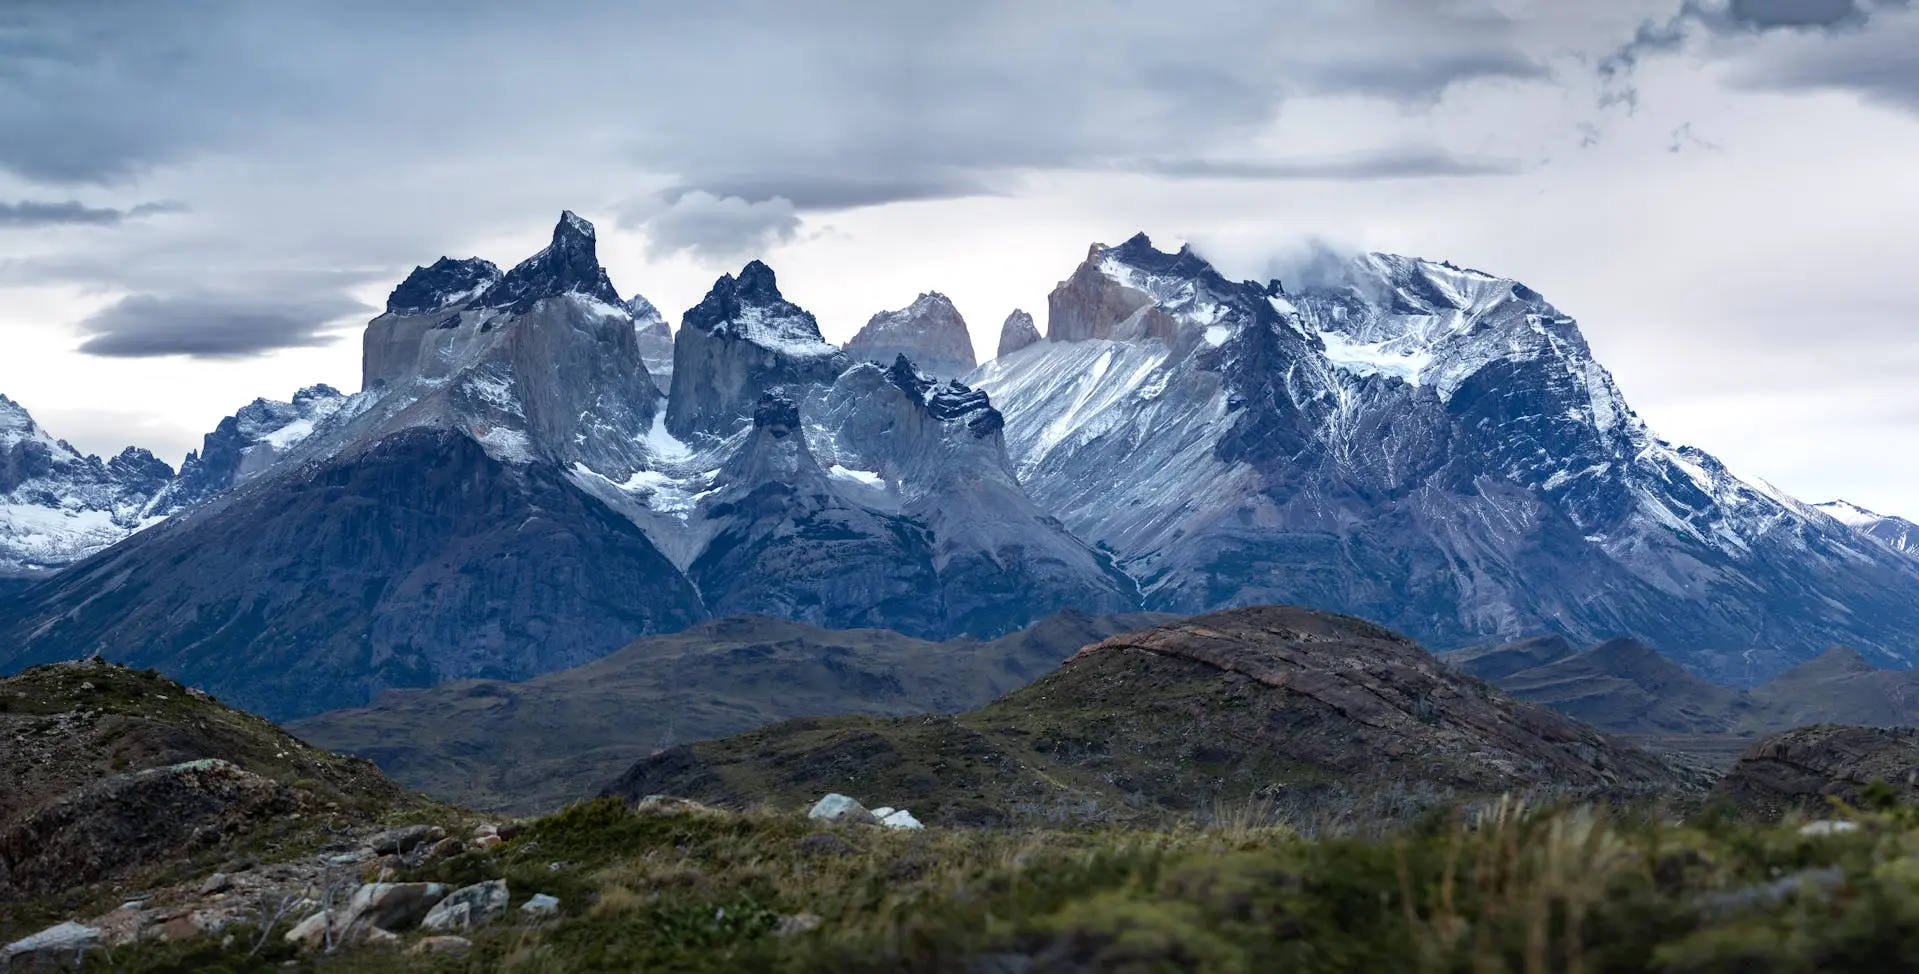
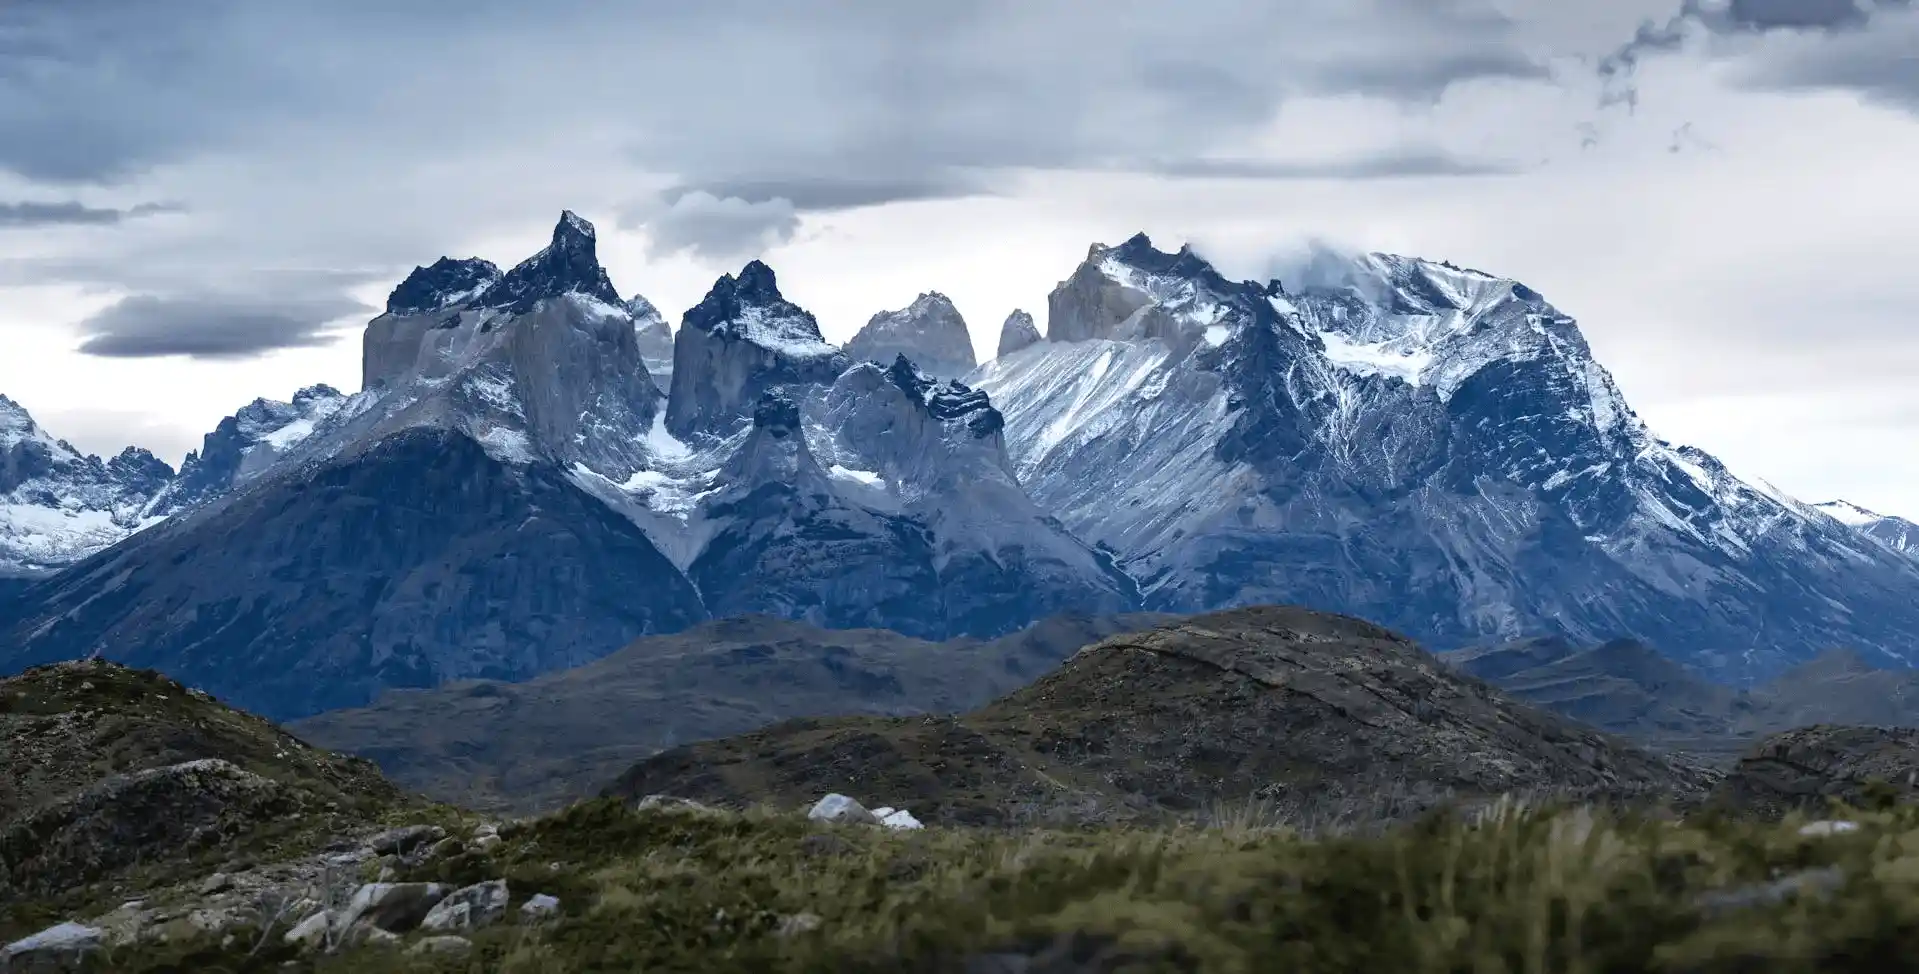
added more info, checked the css

Changed region(s): [[0.8609, 0.462, 0.9224, 0.5544]]

diff --git a/styles/place.css b/styles/place.css
@@ -1,53 +1,73 @@
 :root {
-  --primary: #0033a0;
-  --secondary: #d52b1e;
-  --bg: #ffffff;
-  --text: #000000;
+    --primary: #0033a0;
+    --secondary: #d52b1e;
+    --bg: #ffffff;
+    --text: #000000;
 }
 
 body {
-  margin: 0;
-  font-family: Arial, sans-serif;
-  background: var(--bg);
-  color: var(--text);
+    margin: 0;
+    font-family: Arial, sans-serif;
+    background: var(--bg);
+    color: var(--text);
 }
 
 header, footer {
-  text-align: center;
-  padding: 1rem;
-  background: var(--primary);
-  color: white;
+    text-align: center;
+    padding: 1rem;
+    background: var(--primary);
+    color: white;
 }
 
 .hero img {
-  width: 100%;
-  display: block;
+    width: 100%;
+    display: block;
 }
 
 main {
-  padding: 1rem;
+    padding: 1rem;
 }
 
 .weather-icon {
-  width: 60px;
+    width: 60px;
 }
 
 @media (min-width: 700px) {
-  main {
-    display: grid;
-    grid-template-columns: 1fr 1fr;
-    gap: 1rem;
-  }
+  
+    main {
+        display: grid;
+        grid-template-columns: 1fr 1fr;
+        gap: 1rem;
+    }
 
-  .hero {
+    .hero {
     grid-column: 1 / -1;
-  }
+    position: relative;
+    }
 
-  .weather-title::after {
-    content: " ⛅";
-  }
+    .data,
+    .weather {
+        position: absolute;
+        top: 20px;
+        background: rgba(255, 255, 255, 0.85);
+        padding: 1rem;
+        border-radius: 8px;
+        max-width: 300px;
+    }
 
-  .weather-icon {
-    display: none;
-  }
+    .data{
+        left: 20px;
+    }
+
+    .weather {
+        right: 20px;
+    }
+
+    .weather-title::after {
+        content: " ⛅";
+    }
+
+    .weather-icon {
+        display: none;
+    }
 }

diff --git a/place.html b/place.html
@@ -3,6 +3,8 @@
 <head>
     <meta charset="UTF-8">
     <meta name="viewport" content="width=device-width, initial-scale=1.0">
+    <meta name="description" content="a website dedicated to showcase a country's landscape, weather and other information, both windowed and as a mobile version.">
+    <meta name="author" content="Franco Chumba">
     <title>Chile</title>
     <link rel="stylesheet" href="styles/place.css">
     <script src="scripts/place.js" defer></script>
@@ -19,9 +21,12 @@
             <img src="images/paine_small.webp" alt="Landscape of Torres del Paine, Chile">
         </picture>
     </section>
-    <section class="info">
-        <h2>About</h2>
-        <p>Chile is a long and narrow country located along the western coast of South America.</p>
+    <section class="data">
+        <h2>Data</h2>
+        <p><strong>Capital:</strong> Santiago</p>
+        <p><strong>Population:</strong> 19 million</p>
+        <p><strong>Language:</strong> Spanish</p>
+        <p><strong>Currency:</strong> Chilean Peso</p>
     </section>
     <section class="weather">
         <h2 class="weather-title">Weather</h2>
